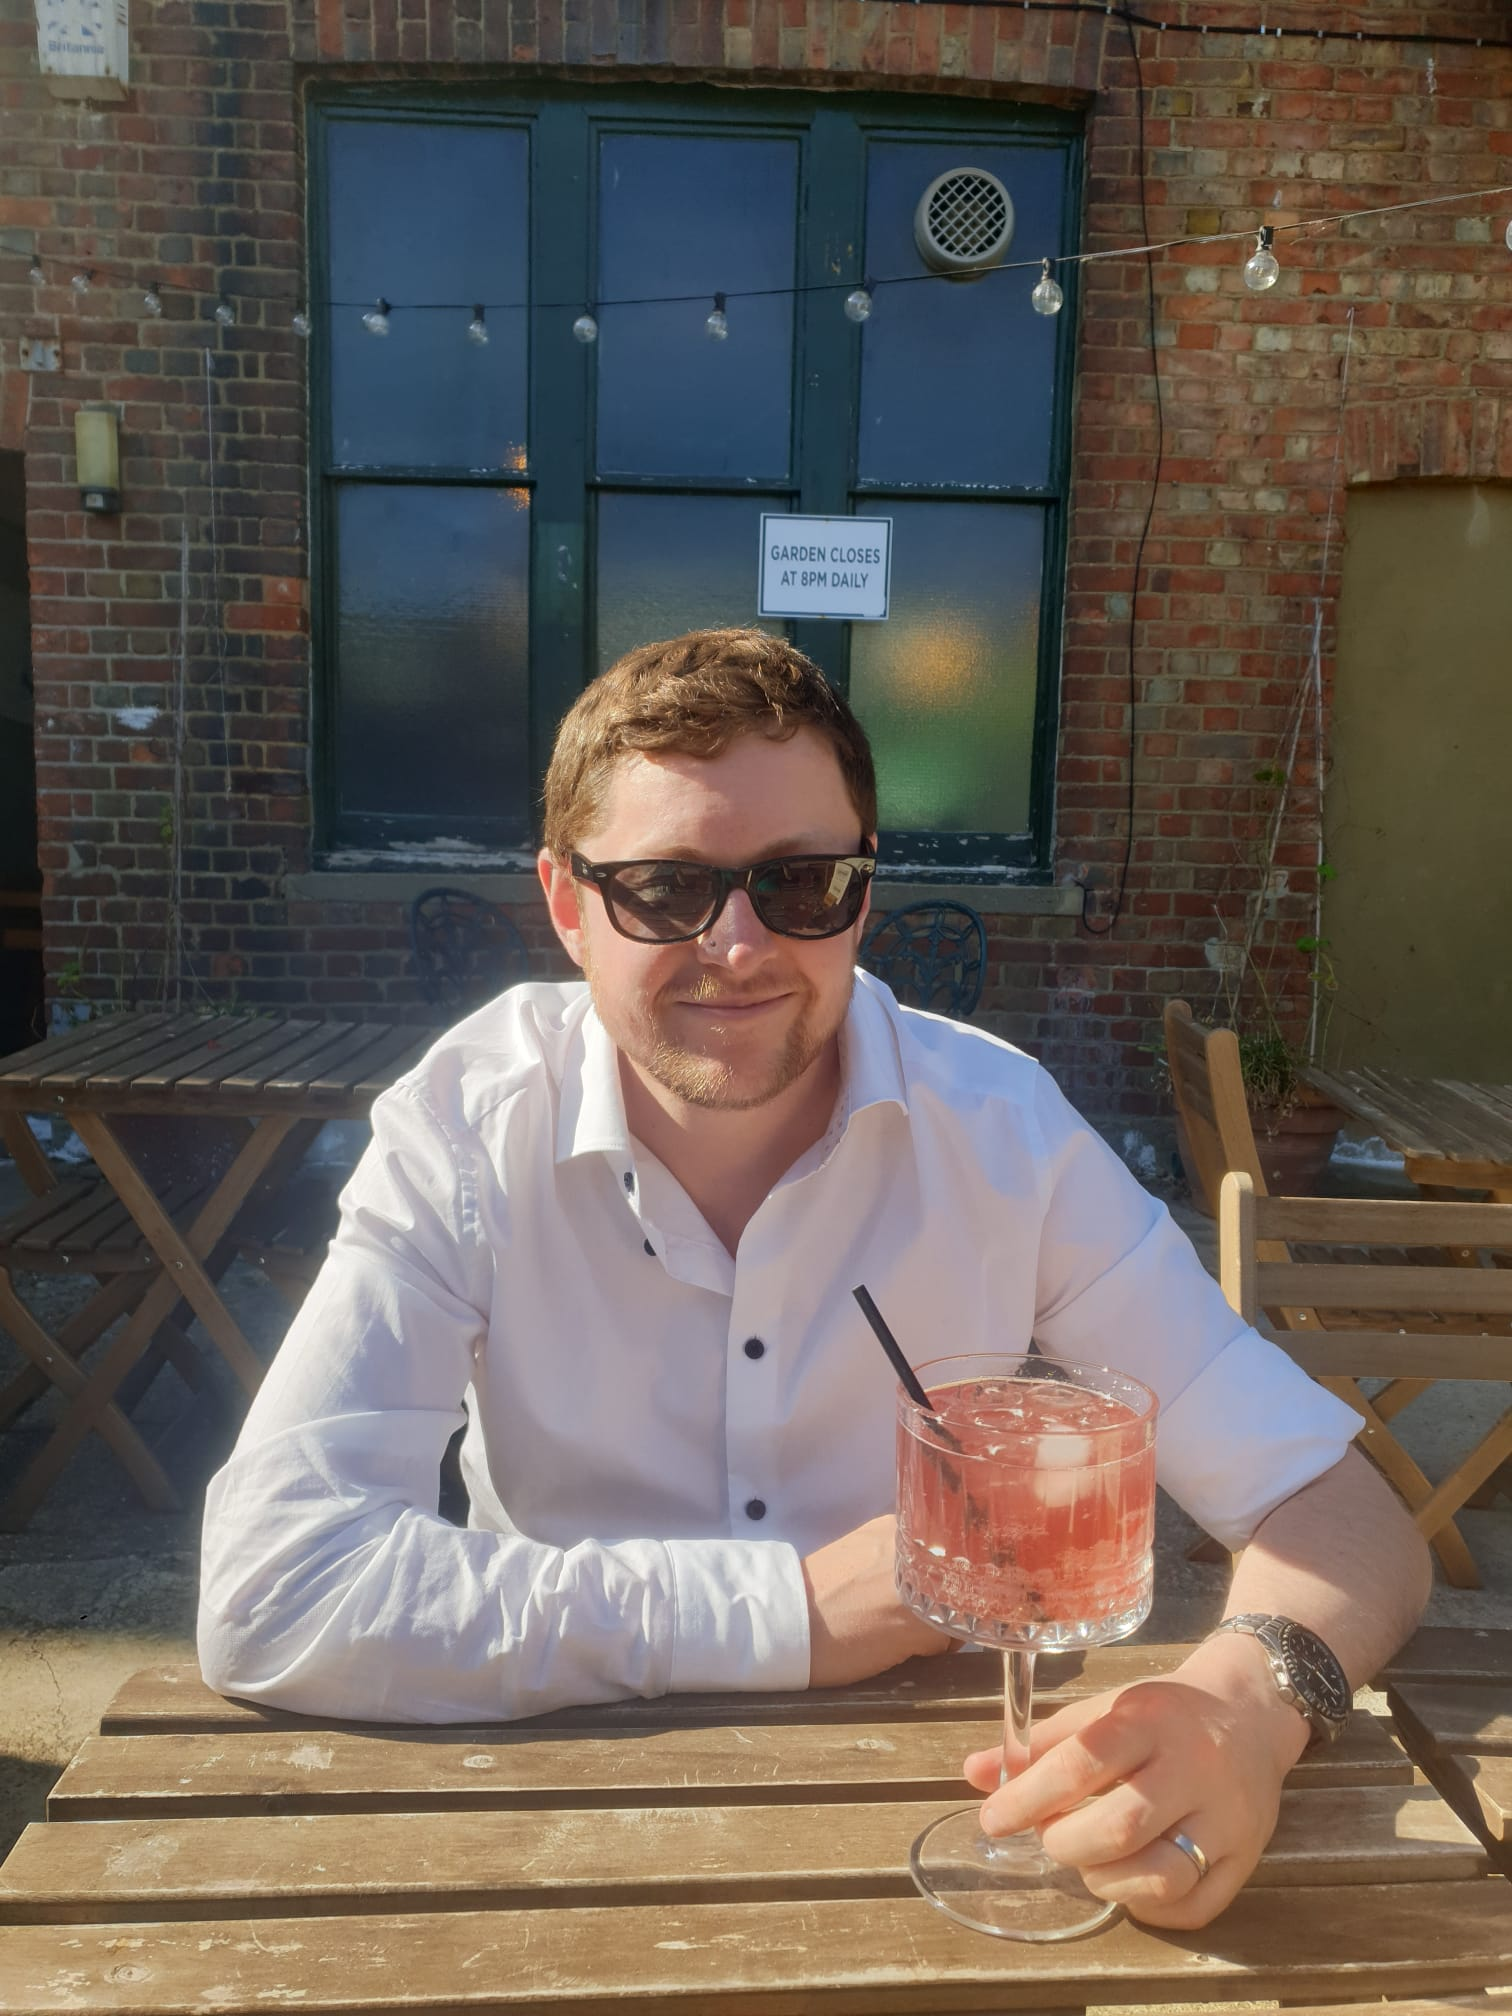
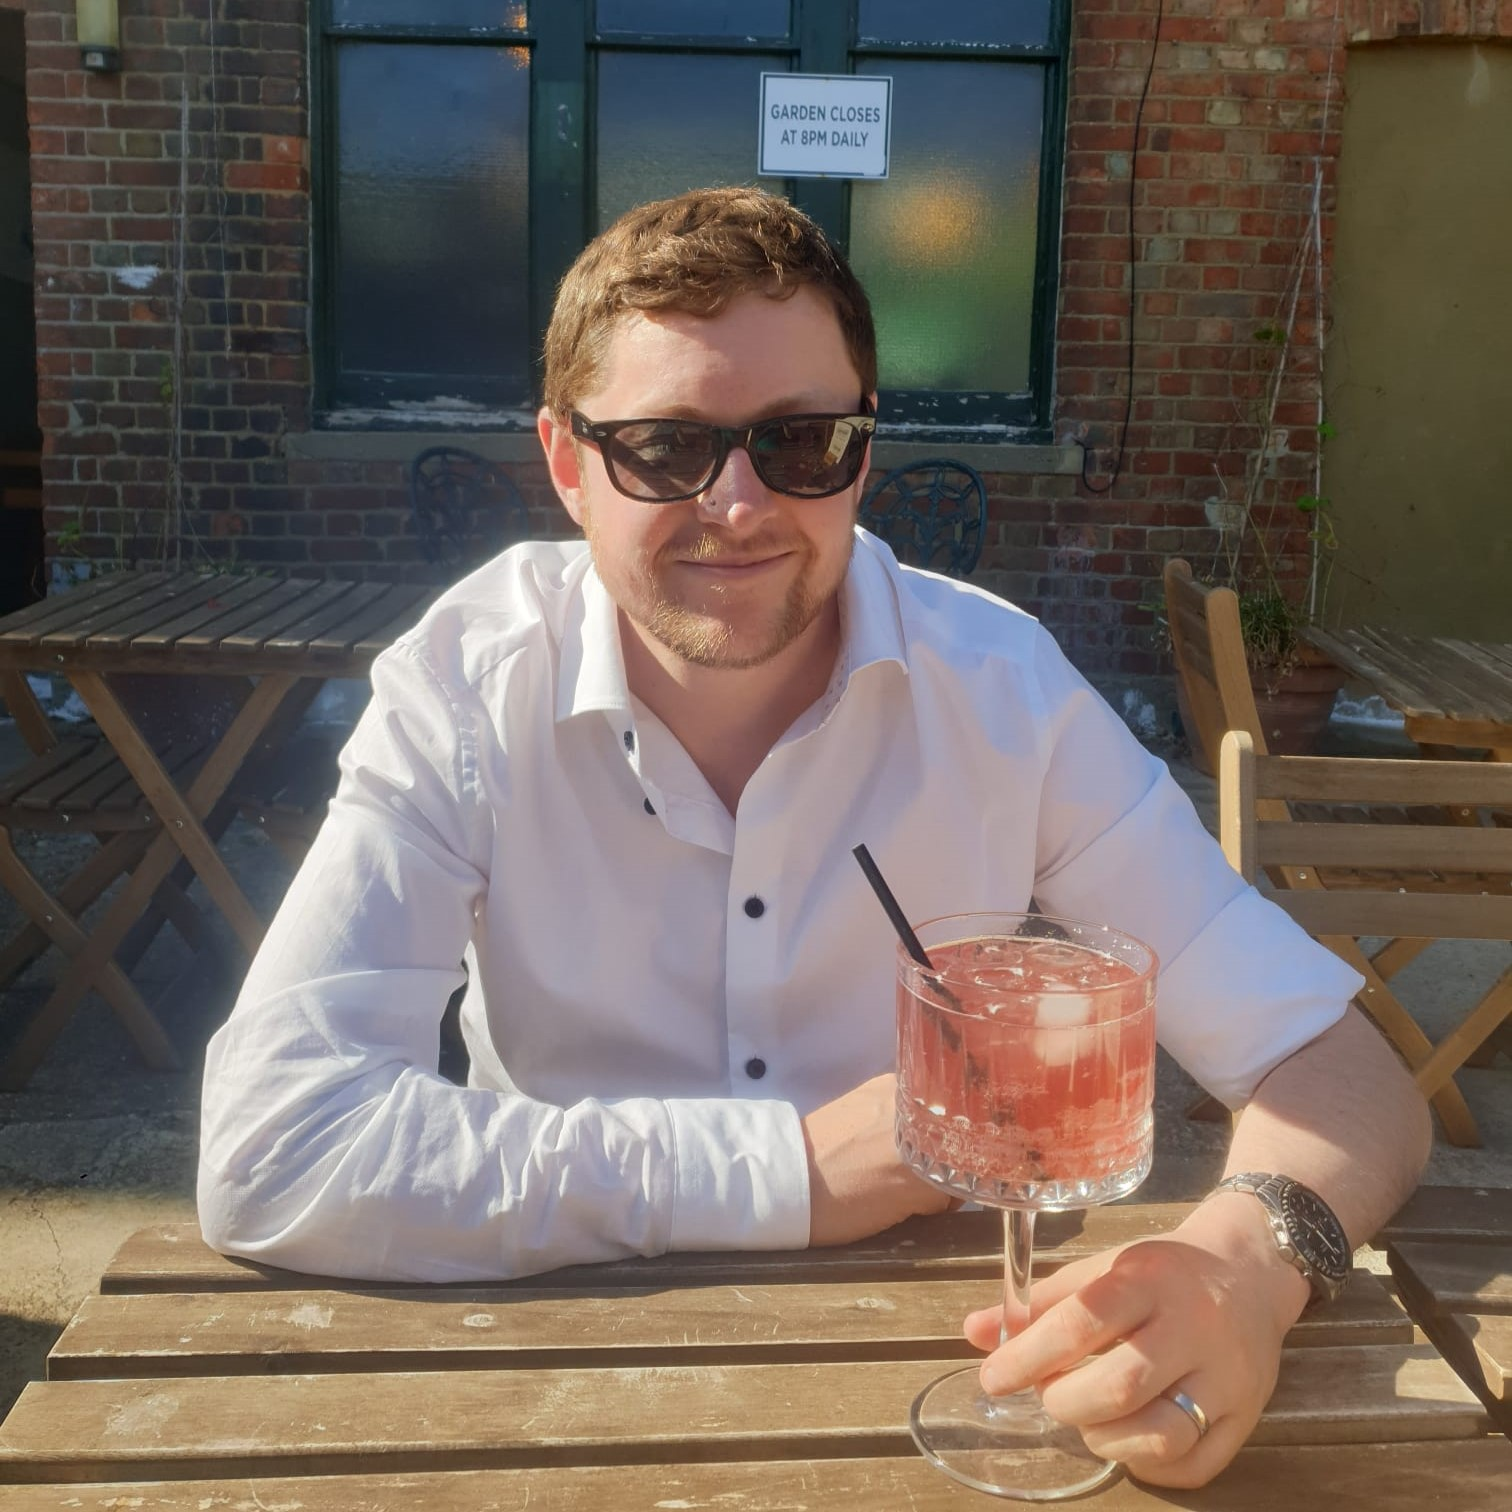
add and style profile section and fix navbar to top of screen

diff --git a/index.html b/index.html
@@ -5,7 +5,9 @@
   <meta charset="UTF-8" />
   <meta name="viewport" content="width=device-width, initial-scale=1.0" />
   <link rel="stylesheet" href="assets/css/style.css" />
-  <link rel="stylesheet" href="assets/css/mediaqueries.css" />
+  <link rel="icon" href="assets/images/linkedin.svg" type="image/svg+xml" />
+  <link rel="icon" href="assets/images/github.svg" type="image/svg+xml" />
+  <link rel="stylesheet" href="https://cdnjs.cloudflare.com/ajax/libs/font-awesome/6.0.0-beta3/css/all.min.css">
   <title>Portfolio Website</title>
 </head>
 
@@ -43,21 +45,27 @@
   </nav>
 
   <section id="profile">
-    <div id="about">
-      <h1>About Me</h1>
-      <div class="about-me">
-        <img src="assets/images/paul-russell.jpg" alt="Paul Russell Profile Picture" />
-        <div class="about-me-text">
-          <p>
-            Hello, I am
-          </p>
-          <h1>Paul Russell</h1>
-          <p>
-            Full Stack Web Developer
-          </p>
-          <button id="cv-btn" onclick="window.open('./assets/sample-cv.pdf')">
-            Download CV
-          </button>
+    <div id="pic-container">
+      <img src="assets/images/paul-russell.jpg" alt="Paul Russell Profile Picture" />
+    </div>
+    <div class="profile-text">
+      <p class="p1-text">
+        Hello, I am
+      </p>
+      <h1 class="title">Paul Russell</h1>
+      <p class="p2-text">
+        Full Stack Web Developer
+      </p>
+      <div class="btn-container">
+        <button id="cv-btn" onclick="window.open('./assets/sample-cv.pdf')">
+          Download CV
+        </button>
+        <div class="socials-container">
+          <a href="https://www.linkedin.com/in/paul-russell-7a9404282/" target="_blank" rel="noopener"
+            aria-label="Visit My LinkedIn page"><img class="social-logo" src="assets/images/linkedin.png" alt="Visit My LinkedIn Page"></a>
+          <a href="https://github.com/PaulR1209" target="_blank" rel="noopener" aria-label="Visit My GitHub page">
+            <img class="social-logo" src="assets/images/github.png" alt="Visit My GitHub Page">
+          </a>
         </div>
       </div>
     </div>

diff --git a/assets/css/style.css b/assets/css/style.css
@@ -21,6 +21,12 @@ nav {
     justify-content: space-around;
     align-items: center;
     height: 4rem;
+    position: fixed;
+    top: 0;
+    width: 100%;
+    background-color: white;
+    z-index: 1000;
+    box-shadow: 0 2px 4px rgba(0, 0, 0, 0.1);
 }
 
 #navlinks {
@@ -50,6 +56,12 @@ a:hover {
 
 #hamburger-nav {
     display: none;
+    position: fixed;
+    top: 0;
+    width: 100%;
+    background-color: white;
+    z-index: 1000;
+    box-shadow: 0 2px 4px rgba(0, 0, 0, 0.1);
 }
 
 #hamburger-menu {
@@ -76,7 +88,7 @@ a:hover {
 #menu-links {
     display: none;
     position: absolute;
-    top: 100%;
+    top: 4rem;
     left: 0;
     width: 100%;
     background-color: white;
@@ -113,4 +125,86 @@ a:hover {
 
 #hamburger-icon.open span:last-child {
     transform: rotate(-45deg) translate(10px, -5px);
+}
+
+/* Sections */
+
+section {
+    padding: 5rem;
+    margin: 0 10rem;
+    box-sizing: border-box;
+    min-height: fit-content;
+}
+
+.container {
+    max-width: 1200px;
+    margin: 0 auto;
+}
+
+/* Profile Section */
+
+#profile {
+    display: flex;
+    justify-content: center;
+    gap: 5rem;
+}
+
+#pic-container {
+    display: flex;
+    height: 400px;
+    width: 400px;
+    margin: auto 0;
+}
+
+img {
+    border-radius: 50%;
+}
+
+.profile-text {
+    align-self: center;
+    text-align: center;
+}
+
+.profile-text p {
+    font-weight: 600;
+}
+
+.p1-text {
+    text-align: center;
+}
+
+.p2-text {
+    font-size: 1.75rem;
+    margin-bottom: 1rem;
+}
+
+.title {
+    font-size: 3rem;
+    text-align: center;
+}
+
+.socials-container {
+    display: flex;
+    justify-content: center;
+    margin-top: 1rem;
+    gap: 1rem;
+}
+
+/* Icons */
+
+.social-logo {
+    cursor: pointer;
+    height: 2rem;
+}
+
+/* Media Queries */
+
+@media screen and (max-width: 1200px) {
+    #navbar {
+        display: none;
+    }
+
+    #hamburger-nav {
+        display: flex;
+    }
 }
